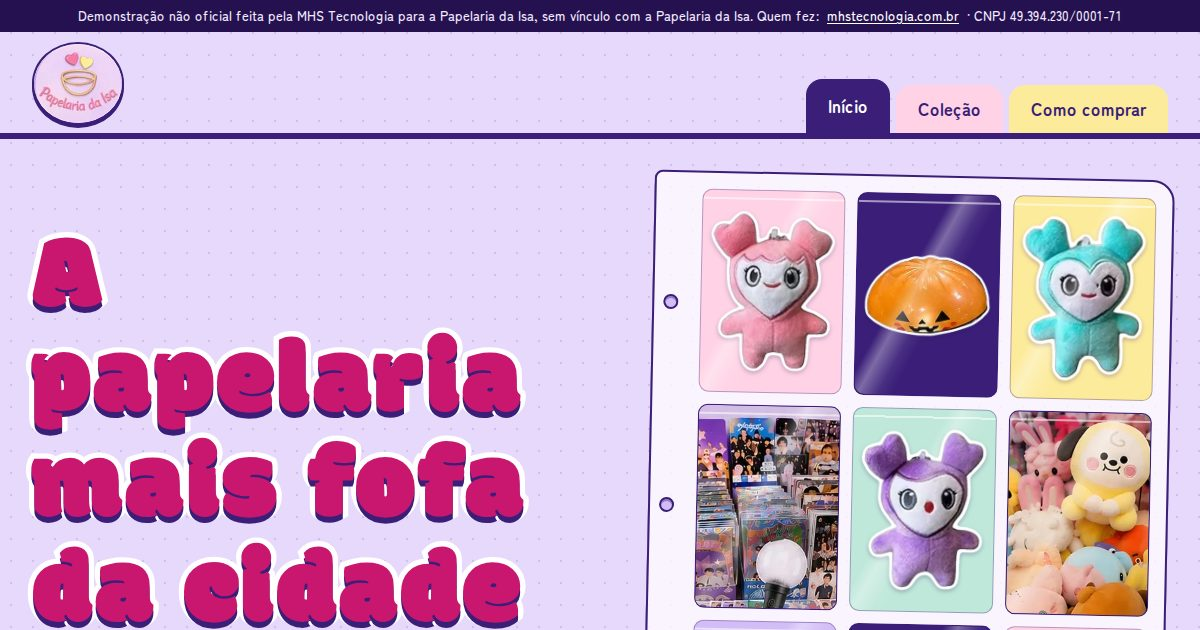
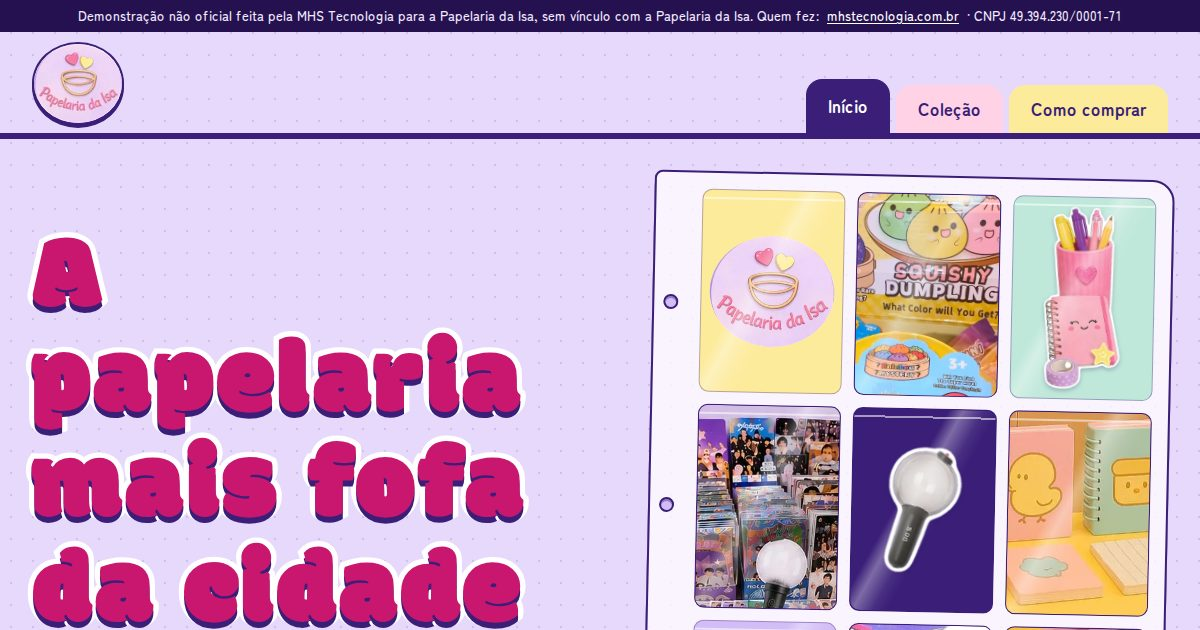
Previews: 56 ativos

Changed region(s): [[0.555, 0.3016, 0.9867, 1.0]]

diff --git a/papelaria-da-isa-joinville-sc/colecao.html b/papelaria-da-isa-joinville-sc/colecao.html
@@ -25,11 +25,14 @@
 </header>
 <main id="conteudo">
 <section class="topo-int">
-  <div class="largura">
+  <div class="largura topo-duas">
+    <div>
     <h1 class="letreiro menor">A coleção</h1>
     <p class="sub">Tudo que cabe no mundo fofo da Isa, separado como num fichário. Viu algo que quer? É só chamar no WhatsApp.</p>
     <div class="acoes acoes-int"><a class="btn btn-cheio" data-cta-topo href="https://wa.me/5547999317565?text=Ol%C3%A1%21%20Quero%20saber%20o%20que%20tem%20na%20cole%C3%A7%C3%A3o%20da%20Papelaria%20da%20Isa."><svg viewBox="0 0 24 24" aria-hidden="true" fill="currentColor"><path d="M12.04 2C6.58 2 2.13 6.45 2.13 11.91c0 1.75.46 3.45 1.32 4.95L2.05 22l5.25-1.38a9.9 9.9 0 0 0 4.74 1.21c5.46 0 9.9-4.45 9.9-9.91S17.5 2 12.04 2Zm5.8 14c-.24.68-1.42 1.31-1.95 1.36-.5.05-1.13.07-1.82-.11-.42-.13-.96-.31-1.65-.61-2.9-1.25-4.8-4.17-4.94-4.36-.14-.19-1.18-1.57-1.18-3 0-1.42.75-2.12 1.01-2.41.26-.29.57-.36.76-.36l.55.01c.18.01.41-.07.65.49.24.57.82 2 .89 2.15.07.14.12.31.02.5-.1.19-.14.31-.29.48-.14.17-.3.37-.43.5-.14.14-.29.3-.12.59.17.29.74 1.22 1.58 1.97 1.09.97 2 1.27 2.29 1.42.29.14.45.12.62-.07.17-.19.72-.84.91-1.13.19-.29.38-.24.65-.14.26.1 1.68.79 1.97.94.29.14.48.21.55.33.07.12.07.69-.17 1.37Z"/></svg><span>Perguntar pelo WhatsApp</span></a></div>
-    <nav class="ancoras" aria-label="Linhas da coleção"><a href="#squish">Squish</a><a href="#kpop">K-pop</a><a href="#pelucias">Pelúcias</a><a href="#bolsas">Bolsas</a><a href="#papelaria">Papelaria e presentes</a></nav>
+    <nav class="ancoras" aria-label="Linhas da coleção"><a href="#squish">Squish</a><a href="#kpop">K-pop</a><a href="#pelucias">Pelúcias</a><a href="#papelaria">Bolsas e papelaria</a></nav>
+    </div>
+    <div class="fecho-fig topo-fig" aria-hidden="true"><span class="fig f0" data-aperta><img src="img/bastao-200.webp" srcset="img/bastao-200.webp 200w" sizes="(max-width: 700px) 34vw, 210px" width="200" height="327" alt="" decoding="async" loading="lazy"></span><span class="fig f1" data-aperta><img src="img/urso-240.webp" srcset="img/urso-240.webp 240w, img/urso-312.webp 312w" sizes="(max-width: 700px) 34vw, 210px" width="240" height="238" alt="" decoding="async" loading="lazy"></span><span class="fig f2" data-aperta><img src="img/papelaria-220.webp" srcset="img/papelaria-220.webp 220w, img/papelaria-420.webp 420w" sizes="(max-width: 700px) 34vw, 210px" width="220" height="520" alt="" decoding="async" loading="lazy"></span></div>
   </div>
 </section>
 <section class="linha" id="squish">
@@ -41,7 +44,7 @@
     </div>
     <div class="fichario fichario-menor">
       <div class="argolas" aria-hidden="true"><i></i><i></i><i></i></div>
-      <ul class="bolsos "><li class="bolso c-foto "><figure><img class="foto" src="img/pn-squish-226.webp" srcset="img/pn-squish-226.webp 226w, img/pn-squish-452.webp 452w" sizes="(max-width: 700px) 42vw, 212px" width="226" height="278" alt="Pilha de bichinhos macios coloridos" decoding="async" loading="lazy"><figcaption>Squishs</figcaption></figure></li><li class="bolso c-uva "><span class="fig larga" data-aperta><img src="img/sq-abobora-240.webp" srcset="img/sq-abobora-240.webp 240w, img/sq-abobora-480.webp 480w" sizes="(max-width: 700px) 34vw, 210px" width="240" height="157" alt="" decoding="async" loading="lazy"></span></li><li class="bolso c-manteiga "><span class="fig larga" data-aperta><img src="img/sq-ouro-240.webp" srcset="img/sq-ouro-240.webp 240w, img/sq-ouro-480.webp 480w" sizes="(max-width: 700px) 34vw, 210px" width="240" height="177" alt="" decoding="async" loading="lazy"></span></li></ul>
+      <ul class="bolsos "><li class="bolso c-foto "><figure><img class="foto" src="img/squish-vitrine-300.webp" srcset="img/squish-vitrine-300.webp 300w, img/squish-vitrine-600.webp 600w" sizes="(max-width: 899px) 44vw, 212px" width="300" height="428" alt="Caixa de Squishy Dumpling com dumplings sorridentes" decoding="async" loading="lazy"><figcaption>Squishy Dumpling</figcaption></figure></li><li class="bolso c-foto "><figure><img class="foto" src="img/caixa-envio-360.webp" srcset="img/caixa-envio-360.webp 360w, img/caixa-envio-720.webp 720w" sizes="(max-width: 899px) 44vw, 212px" width="360" height="555" alt="Squishy Bun amarelo na mão, sobre papel de seda lilás" decoding="async" loading="lazy"><figcaption>Squishy Bun</figcaption></figure></li><li class="bolso c-foto "><figure><img class="foto" src="img/mystery-alto-300.webp" srcset="img/mystery-alto-300.webp 300w, img/mystery-alto-600.webp 600w" sizes="(max-width: 899px) 44vw, 212px" width="300" height="340" alt="Mystery Dumpling Ghost Edition na mão" decoding="async" loading="lazy"><figcaption>Mystery Dumpling</figcaption></figure></li></ul>
     </div>
   </div>
 </section>
@@ -54,7 +57,7 @@
     </div>
     <div class="fichario fichario-menor">
       <div class="argolas" aria-hidden="true"><i></i><i></i><i></i></div>
-      <ul class="bolsos cinco"><li class="bolso c-foto "><figure><img class="foto" src="img/pn-kpop-212.webp" srcset="img/pn-kpop-212.webp 212w" sizes="(max-width: 700px) 42vw, 212px" width="212" height="290" alt="Prateleira de álbuns e photocards de K-pop" decoding="async" loading="lazy"><figcaption>Álbuns e photocards</figcaption></figure></li><li class="bolso c-rosa "><span class="b-txt">Álbuns</span></li><li class="bolso c-menta "><span class="b-txt">Photocards</span></li><li class="bolso c-manteiga "><span class="b-txt">Posters</span></li><li class="bolso c-lilas "><span class="b-txt">Acessórios</span></li></ul>
+      <ul class="bolsos cinco"><li class="bolso c-foto "><figure><img class="foto" src="img/kpop-topo-212.webp" srcset="img/kpop-topo-212.webp 212w" sizes="(max-width: 899px) 44vw, 212px" width="212" height="100" alt="Parede de photocards e posters de K-pop" decoding="async" loading="lazy"><figcaption>Photocards e posters</figcaption></figure></li><li class="bolso c-foto "><figure><img class="foto" src="img/kpop-meio-212.webp" srcset="img/kpop-meio-212.webp 212w" sizes="(max-width: 899px) 44vw, 212px" width="212" height="100" alt="Fileiras de álbuns de K-pop" decoding="async" loading="lazy"><figcaption>Álbuns</figcaption></figure></li><li class="bolso c-rosa "><figure class="fig-ad"><span class="fig " data-aperta><img src="img/bastao-200.webp" srcset="img/bastao-200.webp 200w" sizes="(max-width: 700px) 34vw, 210px" width="200" height="327" alt="" decoding="async" loading="lazy"></span><figcaption>Acessórios</figcaption></figure></li></ul>
     </div>
   </div>
 </section>
@@ -62,44 +65,31 @@
   <div class="largura linha-in">
     <div class="linha-txt">
       <h2 class="titulo">Pelúcias</h2>
-      <p>Tem pelúcia de personagem na prateleira e pelúcias pequenas em várias cores.</p>
+      <p>Pelúcia para abraçar e pelúcia pequena, em várias cores.</p>
       <a class="btn btn-claro"  href="https://wa.me/5547999317565?text=Ol%C3%A1%21%20Quais%20pel%C3%BAcias%20voc%C3%AAs%20t%C3%AAm%20agora%3F"><svg viewBox="0 0 24 24" aria-hidden="true" fill="currentColor"><path d="M12.04 2C6.58 2 2.13 6.45 2.13 11.91c0 1.75.46 3.45 1.32 4.95L2.05 22l5.25-1.38a9.9 9.9 0 0 0 4.74 1.21c5.46 0 9.9-4.45 9.9-9.91S17.5 2 12.04 2Zm5.8 14c-.24.68-1.42 1.31-1.95 1.36-.5.05-1.13.07-1.82-.11-.42-.13-.96-.31-1.65-.61-2.9-1.25-4.8-4.17-4.94-4.36-.14-.19-1.18-1.57-1.18-3 0-1.42.75-2.12 1.01-2.41.26-.29.57-.36.76-.36l.55.01c.18.01.41-.07.65.49.24.57.82 2 .89 2.15.07.14.12.31.02.5-.1.19-.14.31-.29.48-.14.17-.3.37-.43.5-.14.14-.29.3-.12.59.17.29.74 1.22 1.58 1.97 1.09.97 2 1.27 2.29 1.42.29.14.45.12.62-.07.17-.19.72-.84.91-1.13.19-.29.38-.24.65-.14.26.1 1.68.79 1.97.94.29.14.48.21.55.33.07.12.07.69-.17 1.37Z"/></svg><span>Perguntar sobre pelúcias</span></a>
     </div>
     <div class="fichario fichario-menor">
       <div class="argolas" aria-hidden="true"><i></i><i></i><i></i></div>
-      <ul class="bolsos "><li class="bolso c-foto "><figure><img class="foto" src="img/pn-pelucia-186.webp" srcset="img/pn-pelucia-186.webp 186w, img/pn-pelucia-372.webp 372w" sizes="(max-width: 700px) 42vw, 212px" width="186" height="290" alt="Pelúcias de personagens numa prateleira" decoding="async" loading="lazy"><figcaption>Na prateleira</figcaption></figure></li><li class="bolso c-foto "><figure><img class="foto" src="img/chaveiros-460.webp" srcset="img/chaveiros-460.webp 460w, img/chaveiros-900.webp 900w" sizes="(max-width: 700px) 42vw, 212px" width="460" height="334" alt="Oito pelúcias pequenas sobre uma bolsa preta" decoding="async" loading="lazy"><figcaption>Pequenas, sobre a bolsa</figcaption></figure></li><li class="bolso c-foto "><figure><img class="foto" src="img/nove-420.webp" srcset="img/nove-420.webp 420w, img/nove-840.webp 840w" sizes="(max-width: 700px) 42vw, 212px" width="420" height="547" alt="Nove pelúcias iguais em nove cores" decoding="async" loading="lazy"><figcaption>Nove cores</figcaption></figure></li></ul>
-    </div>
-  </div>
-</section>
-<section class="linha" id="bolsas">
-  <div class="largura linha-in">
-    <div class="linha-txt">
-      <h2 class="titulo">Bolsas</h2>
-      <p>Bolsas fofas e bolsinhas, e as pelúcias pequenas ficam lindas nelas.</p>
-      <a class="btn btn-claro"  href="https://wa.me/5547999317565?text=Ol%C3%A1%21%20Quais%20bolsas%20voc%C3%AAs%20t%C3%AAm%20agora%3F"><svg viewBox="0 0 24 24" aria-hidden="true" fill="currentColor"><path d="M12.04 2C6.58 2 2.13 6.45 2.13 11.91c0 1.75.46 3.45 1.32 4.95L2.05 22l5.25-1.38a9.9 9.9 0 0 0 4.74 1.21c5.46 0 9.9-4.45 9.9-9.91S17.5 2 12.04 2Zm5.8 14c-.24.68-1.42 1.31-1.95 1.36-.5.05-1.13.07-1.82-.11-.42-.13-.96-.31-1.65-.61-2.9-1.25-4.8-4.17-4.94-4.36-.14-.19-1.18-1.57-1.18-3 0-1.42.75-2.12 1.01-2.41.26-.29.57-.36.76-.36l.55.01c.18.01.41-.07.65.49.24.57.82 2 .89 2.15.07.14.12.31.02.5-.1.19-.14.31-.29.48-.14.17-.3.37-.43.5-.14.14-.29.3-.12.59.17.29.74 1.22 1.58 1.97 1.09.97 2 1.27 2.29 1.42.29.14.45.12.62-.07.17-.19.72-.84.91-1.13.19-.29.38-.24.65-.14.26.1 1.68.79 1.97.94.29.14.48.21.55.33.07.12.07.69-.17 1.37Z"/></svg><span>Perguntar sobre bolsas</span></a>
-    </div>
-    <div class="fichario fichario-menor">
-      <div class="argolas" aria-hidden="true"><i></i><i></i><i></i></div>
-      <ul class="bolsos "><li class="bolso c-foto "><figure><img class="foto" src="img/pn-bolsas-160.webp" srcset="img/pn-bolsas-160.webp 160w, img/pn-bolsas-316.webp 316w" sizes="(max-width: 700px) 42vw, 212px" width="160" height="302" alt="Bolsa preta e rosa com personagem e bolsinha xadrez lilás" decoding="async" loading="lazy"><figcaption>Bolsa e bolsinha</figcaption></figure></li><li class="bolso c-rosa "><span class="fig " data-aperta><img src="img/pel-cinza-240.webp" srcset="img/pel-cinza-240.webp 240w, img/pel-cinza-442.webp 442w" sizes="(max-width: 700px) 34vw, 210px" width="240" height="309" alt="" decoding="async" loading="lazy"></span></li><li class="bolso c-menta "><span class="fig " data-aperta><img src="img/pel-azul-240.webp" srcset="img/pel-azul-240.webp 240w, img/pel-azul-480.webp 480w" sizes="(max-width: 700px) 34vw, 210px" width="240" height="279" alt="" decoding="async" loading="lazy"></span></li></ul>
+      <ul class="bolsos "><li class="bolso c-foto "><figure><img class="foto" src="img/pilha-225.webp" srcset="img/pilha-225.webp 225w" sizes="(max-width: 899px) 44vw, 212px" width="225" height="320" alt="Pilha de pelúcias em tons pastel" decoding="async" loading="lazy"><figcaption>Para abraçar</figcaption></figure></li><li class="bolso c-foto "><figure><img class="foto" src="img/chaveiros-460.webp" srcset="img/chaveiros-460.webp 460w, img/chaveiros-900.webp 900w" sizes="(max-width: 899px) 44vw, 212px" width="460" height="334" alt="Oito pelúcias pequenas sobre uma bolsa preta" decoding="async" loading="lazy"><figcaption>Pequenas, sobre a bolsa</figcaption></figure></li><li class="bolso c-foto "><figure><img class="foto" src="img/nove-420.webp" srcset="img/nove-420.webp 420w, img/nove-840.webp 840w" sizes="(max-width: 899px) 44vw, 212px" width="420" height="547" alt="Nove pelúcias iguais em nove cores" decoding="async" loading="lazy"><figcaption>Nove cores</figcaption></figure></li></ul>
     </div>
   </div>
 </section>
 <section class="linha" id="papelaria">
   <div class="largura linha-in">
     <div class="linha-txt">
-      <h2 class="titulo">Papelaria e presentes</h2>
-      <p>A papelaria fofa do nome, e presentes criativos para quem você gosta.</p>
+      <h2 class="titulo">Bolsas e papelaria</h2>
+      <p>Bolsas fofas, a papelaria do nome e presentes criativos para quem você gosta.</p>
       <a class="btn btn-claro"  href="https://wa.me/5547999317565?text=Ol%C3%A1%21%20Queria%20uma%20ideia%20de%20presente%20da%20Papelaria%20da%20Isa."><svg viewBox="0 0 24 24" aria-hidden="true" fill="currentColor"><path d="M12.04 2C6.58 2 2.13 6.45 2.13 11.91c0 1.75.46 3.45 1.32 4.95L2.05 22l5.25-1.38a9.9 9.9 0 0 0 4.74 1.21c5.46 0 9.9-4.45 9.9-9.91S17.5 2 12.04 2Zm5.8 14c-.24.68-1.42 1.31-1.95 1.36-.5.05-1.13.07-1.82-.11-.42-.13-.96-.31-1.65-.61-2.9-1.25-4.8-4.17-4.94-4.36-.14-.19-1.18-1.57-1.18-3 0-1.42.75-2.12 1.01-2.41.26-.29.57-.36.76-.36l.55.01c.18.01.41-.07.65.49.24.57.82 2 .89 2.15.07.14.12.31.02.5-.1.19-.14.31-.29.48-.14.17-.3.37-.43.5-.14.14-.29.3-.12.59.17.29.74 1.22 1.58 1.97 1.09.97 2 1.27 2.29 1.42.29.14.45.12.62-.07.17-.19.72-.84.91-1.13.19-.29.38-.24.65-.14.26.1 1.68.79 1.97.94.29.14.48.21.55.33.07.12.07.69-.17 1.37Z"/></svg><span>Pedir ideia de presente</span></a>
     </div>
     <div class="fichario fichario-menor">
       <div class="argolas" aria-hidden="true"><i></i><i></i><i></i></div>
-      <ul class="bolsos "><li class="bolso c-foto "><figure><img class="foto" src="img/pn-mais-226.webp" srcset="img/pn-mais-226.webp 226w" sizes="(max-width: 700px) 42vw, 212px" width="226" height="330" alt="Caderno, fita, chaveiro de coração e o logo da loja em neon" decoding="async" loading="lazy"><figcaption>E muito mais</figcaption></figure></li><li class="bolso c-menta "><span class="fig alta" data-aperta><img src="img/papelaria-220.webp" srcset="img/papelaria-220.webp 220w, img/papelaria-420.webp 420w" sizes="(max-width: 700px) 34vw, 210px" width="220" height="520" alt="" decoding="async" loading="lazy"></span></li><li class="bolso c-lilas "><span class="fig " data-aperta><img src="img/pel-branca-240.webp" srcset="img/pel-branca-240.webp 240w, img/pel-branca-458.webp 458w" sizes="(max-width: 700px) 34vw, 210px" width="240" height="307" alt="" decoding="async" loading="lazy"></span></li></ul>
+      <ul class="bolsos "><li class="bolso c-foto "><figure><img class="foto" src="img/bolsa-xadrez-254.webp" srcset="img/bolsa-xadrez-254.webp 254w" sizes="(max-width: 899px) 44vw, 212px" width="254" height="266" alt="Bolsinha xadrez lilás na frente de uma bolsa rosa" decoding="async" loading="lazy"><figcaption>Bolsinha xadrez</figcaption></figure></li><li class="bolso c-menta "><figure class="fig-ad"><span class="fig alta" data-aperta><img src="img/papelaria-220.webp" srcset="img/papelaria-220.webp 220w, img/papelaria-420.webp 420w" sizes="(max-width: 700px) 34vw, 210px" width="220" height="520" alt="" decoding="async" loading="lazy"></span><figcaption>Papelaria fofa</figcaption></figure></li><li class="bolso c-foto "><figure><img class="foto" src="img/cadernos-300.webp" srcset="img/cadernos-300.webp 300w, img/cadernos-405.webp 405w" sizes="(max-width: 899px) 44vw, 212px" width="300" height="307" alt="Arte de cadernos pastel com pintinho e torradinha" decoding="async" loading="lazy"><figcaption>Arte de cadernos</figcaption></figure></li></ul>
     </div>
   </div>
 </section>
 <section class="fecho">
   <div class="largura fecho-in">
-    <div class="fecho-fig" aria-hidden="true"><span class="fig f0" data-aperta><img src="img/pel-rosa-240.webp" srcset="img/pel-rosa-240.webp 240w, img/pel-rosa-480.webp 480w" sizes="(max-width: 700px) 34vw, 210px" width="240" height="308" alt="" decoding="async" loading="lazy"></span><span class="fig f1" data-aperta><img src="img/pel-turquesa-240.webp" srcset="img/pel-turquesa-240.webp 240w, img/pel-turquesa-442.webp 442w" sizes="(max-width: 700px) 34vw, 210px" width="240" height="319" alt="" decoding="async" loading="lazy"></span><span class="fig f2" data-aperta><img src="img/pel-lilas-240.webp" srcset="img/pel-lilas-240.webp 240w, img/pel-lilas-448.webp 448w" sizes="(max-width: 700px) 34vw, 210px" width="240" height="312" alt="" decoding="async" loading="lazy"></span></div>
+    <div class="fecho-fig" aria-hidden="true"><span class="fig f0" data-aperta><img src="img/pel-verde-240.webp" srcset="img/pel-verde-240.webp 240w, img/pel-verde-454.webp 454w" sizes="(max-width: 700px) 34vw, 210px" width="240" height="321" alt="" decoding="async" loading="lazy"></span><span class="fig f1" data-aperta><img src="img/urso-240.webp" srcset="img/urso-240.webp 240w, img/urso-312.webp 312w" sizes="(max-width: 700px) 34vw, 210px" width="240" height="238" alt="" decoding="async" loading="lazy"></span><span class="fig f2" data-aperta><img src="img/bastao-200.webp" srcset="img/bastao-200.webp 200w" sizes="(max-width: 700px) 34vw, 210px" width="200" height="327" alt="" decoding="async" loading="lazy"></span></div>
     <div>
       <h2 class="titulo">Viu algo que quer?</h2>
       <p>Mande uma mensagem e pergunte se tem. Enviamos para todo o Brasil.</p>

diff --git a/papelaria-da-isa-joinville-sc/index.html b/papelaria-da-isa-joinville-sc/index.html
@@ -35,40 +35,18 @@
   <div class="largura hero-in">
     <div class="hero-txt">
       <h1 class="letreiro">A papelaria mais fofa da cidade</h1>
-      <p class="sub">Squish, photocards, álbuns de K-pop, pelúcias e presentes criativos. No Shopping Mueller, em Joinville, com envio para todo o Brasil.</p>
+      <p class="sub">Squish, photocards, K-pop e pelúcias no Shopping Mueller, em Joinville. Enviamos para todo o Brasil.</p>
       <div class="acoes">
         <a class="btn btn-cheio" data-cta-topo href="https://wa.me/5547999317565?text=Ol%C3%A1%21%20Quero%20saber%20o%20que%20tem%20de%20novidade%20na%20Papelaria%20da%20Isa."><svg viewBox="0 0 24 24" aria-hidden="true" fill="currentColor"><path d="M12.04 2C6.58 2 2.13 6.45 2.13 11.91c0 1.75.46 3.45 1.32 4.95L2.05 22l5.25-1.38a9.9 9.9 0 0 0 4.74 1.21c5.46 0 9.9-4.45 9.9-9.91S17.5 2 12.04 2Zm5.8 14c-.24.68-1.42 1.31-1.95 1.36-.5.05-1.13.07-1.82-.11-.42-.13-.96-.31-1.65-.61-2.9-1.25-4.8-4.17-4.94-4.36-.14-.19-1.18-1.57-1.18-3 0-1.42.75-2.12 1.01-2.41.26-.29.57-.36.76-.36l.55.01c.18.01.41-.07.65.49.24.57.82 2 .89 2.15.07.14.12.31.02.5-.1.19-.14.31-.29.48-.14.17-.3.37-.43.5-.14.14-.29.3-.12.59.17.29.74 1.22 1.58 1.97 1.09.97 2 1.27 2.29 1.42.29.14.45.12.62-.07.17-.19.72-.84.91-1.13.19-.29.38-.24.65-.14.26.1 1.68.79 1.97.94.29.14.48.21.55.33.07.12.07.69-.17 1.37Z"/></svg><span>Chamar no WhatsApp</span></a>
-        <a class="btn btn-claro" href="colecao.html">Ver a coleção</a>
+        <a class="btn btn-claro so-grande" href="colecao.html">Ver a coleção</a>
       </div>
     </div>
-    <div class="fichario" aria-label="Página de fichário com pelúcias, squishs e photocards" role="group">
+    <div class="fichario" aria-label="Página de fichário com squishs, papelaria, K-pop e pelúcias" role="group">
       <div class="argolas" aria-hidden="true"><i></i><i></i><i></i></div>
-      <ul class="bolsos"><li class="bolso c-rosa "><span class="fig " data-aperta><img src="img/pel-rosa-240.webp" srcset="img/pel-rosa-240.webp 240w, img/pel-rosa-480.webp 480w" sizes="(max-width: 700px) 34vw, 210px" width="240" height="308" alt="" decoding="async" loading="lazy"></span></li><li class="bolso c-uva "><span class="fig larga" data-aperta><img src="img/sq-abobora-240.webp" srcset="img/sq-abobora-240.webp 240w, img/sq-abobora-480.webp 480w" sizes="(max-width: 700px) 34vw, 210px" width="240" height="157" alt="" decoding="async" loading="lazy"></span></li><li class="bolso c-manteiga "><span class="fig " data-aperta><img src="img/pel-turquesa-240.webp" srcset="img/pel-turquesa-240.webp 240w, img/pel-turquesa-442.webp 442w" sizes="(max-width: 700px) 34vw, 210px" width="240" height="319" alt="" decoding="async" loading="lazy"></span></li><li class="bolso c-foto "><img class="foto" src="img/pn-kpop-212.webp" srcset="img/pn-kpop-212.webp 212w" sizes="(max-width: 700px) 30vw, 170px" width="212" height="290" alt="Prateleira de álbuns e photocards de K-pop" decoding="async" loading="lazy"></li><li class="bolso c-menta "><span class="fig " data-aperta><img src="img/pel-lilas-240.webp" srcset="img/pel-lilas-240.webp 240w, img/pel-lilas-448.webp 448w" sizes="(max-width: 700px) 34vw, 210px" width="240" height="312" alt="" decoding="async" loading="lazy"></span></li><li class="bolso c-foto "><img class="foto" src="img/pn-squish-226.webp" srcset="img/pn-squish-226.webp 226w, img/pn-squish-452.webp 452w" sizes="(max-width: 700px) 30vw, 170px" width="226" height="278" alt="Pilha de bichinhos macios coloridos" decoding="async" loading="lazy"></li><li class="bolso c-lilas "><span class="fig " data-aperta><img src="img/pel-amarela-240.webp" srcset="img/pel-amarela-240.webp 240w, img/pel-amarela-478.webp 478w" sizes="(max-width: 700px) 34vw, 210px" width="240" height="307" alt="" decoding="async" loading="lazy"></span></li><li class="bolso c-uva "><span class="fig larga" data-aperta><img src="img/sq-ouro-240.webp" srcset="img/sq-ouro-240.webp 240w, img/sq-ouro-480.webp 480w" sizes="(max-width: 700px) 34vw, 210px" width="240" height="177" alt="" decoding="async" loading="lazy"></span></li><li class="bolso c-rosa "><span class="fig " data-aperta><img src="img/pel-vermelha-240.webp" srcset="img/pel-vermelha-240.webp 240w, img/pel-vermelha-480.webp 480w" sizes="(max-width: 700px) 34vw, 210px" width="240" height="286" alt="" decoding="async" loading="lazy"></span></li></ul>
+      <ul class="bolsos"><li class="bolso c-manteiga "><img class="b-logo" src="img/logo-112.webp" srcset="img/logo-112.webp 112w, img/logo-224.webp 224w, img/logo-400.webp 400w" sizes="(max-width: 700px) 30vw, 170px" width="112" height="100" alt="Logo da Papelaria da Isa" decoding="async" loading="lazy"></li><li class="bolso c-foto "><img class="foto" src="img/squish-vitrine-300.webp" srcset="img/squish-vitrine-300.webp 300w, img/squish-vitrine-600.webp 600w" sizes="(max-width: 700px) 30vw, 170px" width="300" height="428" alt="Caixa de Squishy Dumpling com dumplings sorridentes" decoding="async" loading="lazy"></li><li class="bolso c-menta "><span class="fig alta" data-aperta><img src="img/papelaria-220.webp" srcset="img/papelaria-220.webp 220w, img/papelaria-420.webp 420w" sizes="(max-width: 700px) 34vw, 210px" width="220" height="520" alt="" decoding="async" loading="lazy"></span></li><li class="bolso c-foto "><img class="foto" src="img/pn-kpop-212.webp" srcset="img/pn-kpop-212.webp 212w" sizes="(max-width: 700px) 30vw, 170px" width="212" height="290" alt="Prateleira de álbuns e photocards de K-pop" decoding="async" loading="lazy"></li><li class="bolso c-uva "><span class="fig alta" data-aperta><img src="img/bastao-200.webp" srcset="img/bastao-200.webp 200w" sizes="(max-width: 700px) 34vw, 210px" width="200" height="327" alt="" decoding="async" loading="lazy"></span></li><li class="bolso c-foto "><img class="foto" src="img/cadernos-300.webp" srcset="img/cadernos-300.webp 300w, img/cadernos-405.webp 405w" sizes="(max-width: 700px) 30vw, 170px" width="300" height="307" alt="Arte de cadernos pastel com pintinho e torradinha" decoding="async" loading="lazy"></li><li class="bolso c-lilas "><span class="fig " data-aperta><img src="img/urso-240.webp" srcset="img/urso-240.webp 240w, img/urso-312.webp 312w" sizes="(max-width: 700px) 34vw, 210px" width="240" height="238" alt="" decoding="async" loading="lazy"></span></li><li class="bolso c-foto "><img class="foto" src="img/mystery-alto-300.webp" srcset="img/mystery-alto-300.webp 300w, img/mystery-alto-600.webp 600w" sizes="(max-width: 700px) 30vw, 170px" width="300" height="340" alt="Mystery Dumpling Ghost Edition na mão" decoding="async" loading="lazy"></li><li class="bolso c-foto "><img class="foto" src="img/pilha-225.webp" srcset="img/pilha-225.webp 225w" sizes="(max-width: 700px) 30vw, 170px" width="225" height="320" alt="Pilha de pelúcias em tons pastel" decoding="async" loading="lazy"></li></ul>
       <p class="dica">Pode apertar. É macio.</p>
     </div>
-  </div>
-</section>
-
-<section class="secao">
-  <div class="largura">
-    <h2 class="titulo">Aqui é mais que papelaria</h2>
-    <p class="lead">Tem um mundo fofo e cheio de novidades esperando por você.</p>
-    <ul class="tira"><li><a class="pcard" href="colecao.html#squish"><img class="foto" src="img/pn-squish-226.webp" srcset="img/pn-squish-226.webp 226w, img/pn-squish-452.webp 452w" sizes="(max-width: 700px) 44vw, 212px" width="226" height="278" alt="Pilha de bichinhos macios coloridos" decoding="async" loading="lazy"><span>Squishs</span></a></li><li><a class="pcard" href="colecao.html#kpop"><img class="foto" src="img/pn-kpop-212.webp" srcset="img/pn-kpop-212.webp 212w" sizes="(max-width: 700px) 44vw, 212px" width="212" height="290" alt="Prateleira de álbuns e photocards de K-pop" decoding="async" loading="lazy"><span>K-pop</span></a></li><li><a class="pcard" href="colecao.html#pelucias"><img class="foto" src="img/pn-pelucia-186.webp" srcset="img/pn-pelucia-186.webp 186w, img/pn-pelucia-372.webp 372w" sizes="(max-width: 700px) 44vw, 212px" width="186" height="290" alt="Pelúcias de personagens numa prateleira" decoding="async" loading="lazy"><span>Pelúcias</span></a></li><li><a class="pcard" href="colecao.html#bolsas"><img class="foto" src="img/pn-bolsas-160.webp" srcset="img/pn-bolsas-160.webp 160w, img/pn-bolsas-316.webp 316w" sizes="(max-width: 700px) 44vw, 212px" width="160" height="302" alt="Bolsa preta e rosa e bolsinha xadrez lilás" decoding="async" loading="lazy"><span>Bolsas</span></a></li><li><a class="pcard" href="colecao.html#papelaria"><img class="foto" src="img/pn-mais-226.webp" srcset="img/pn-mais-226.webp 226w" sizes="(max-width: 700px) 44vw, 212px" width="226" height="330" alt="Caderno, fita, chaveiro de coração e o logo da loja em neon" decoding="async" loading="lazy"><span>E muito mais</span></a></li></ul>
-  </div>
-</section>
-
-<section class="novidade">
-  <div class="largura nov-in">
-    <div class="nov-foto"><img src="img/halloween-720.webp" srcset="img/halloween-720.webp 720w, img/halloween-1400.webp 1400w" sizes="(max-width: 900px) 100vw, 680px" width="720" height="472" alt="Caixa do Mystery Dumpling Ghost Edition com seis squishs de Halloween na frente" decoding="async" loading="lazy"></div>
-    <div class="nov-txt">
-      <p class="selo">Novidade</p>
-      <h2 class="titulo claro">Squishy Halloween</h2>
-      <p>Macio, divertido e super colecionável. A edição limitada é o Ghost Dumpling.</p>
-      <ul class="fitas">
-        <li>Macio e squeezy</li><li>Textura com glitter</li><li>Ideal para presentear</li><li>Colecione todos</li>
-      </ul>
-      <a class="btn btn-manteiga"  href="https://wa.me/5547999317565?text=Ol%C3%A1%21%20Quero%20um%20Squishy%20Halloween."><svg viewBox="0 0 24 24" aria-hidden="true" fill="currentColor"><path d="M12.04 2C6.58 2 2.13 6.45 2.13 11.91c0 1.75.46 3.45 1.32 4.95L2.05 22l5.25-1.38a9.9 9.9 0 0 0 4.74 1.21c5.46 0 9.9-4.45 9.9-9.91S17.5 2 12.04 2Zm5.8 14c-.24.68-1.42 1.31-1.95 1.36-.5.05-1.13.07-1.82-.11-.42-.13-.96-.31-1.65-.61-2.9-1.25-4.8-4.17-4.94-4.36-.14-.19-1.18-1.57-1.18-3 0-1.42.75-2.12 1.01-2.41.26-.29.57-.36.76-.36l.55.01c.18.01.41-.07.65.49.24.57.82 2 .89 2.15.07.14.12.31.02.5-.1.19-.14.31-.29.48-.14.17-.3.37-.43.5-.14.14-.29.3-.12.59.17.29.74 1.22 1.58 1.97 1.09.97 2 1.27 2.29 1.42.29.14.45.12.62-.07.17-.19.72-.84.91-1.13.19-.29.38-.24.65-.14.26.1 1.68.79 1.97.94.29.14.48.21.55.33.07.12.07.69-.17 1.37Z"/></svg><span>Garantir o meu</span></a>
-    </div>
+    <a class="btn btn-claro so-cel" href="colecao.html">Ver a coleção</a>
   </div>
 </section>
 
@@ -82,6 +60,28 @@
       <p class="lead">Essa é a pergunta na caixa do Squishy Dumpling e do Squishy Bun. Você só descobre quando abre.</p>
       <p>Na edição Glitter, a caixa ainda pergunta se você vai achar o dourado super raro.</p>
       <p><a class="link" href="colecao.html#squish">Ver os squishs da coleção</a></p>
+    </div>
+  </div>
+</section>
+
+<section class="secao">
+  <div class="largura">
+    <h2 class="titulo">Aqui é mais que papelaria</h2>
+    <p class="lead">Tem um mundo fofo e cheio de novidades esperando por você.</p>
+    <ul class="tira"><li><a class="pcard" href="colecao.html#squish"><img class="foto" src="img/squish-vitrine-300.webp" srcset="img/squish-vitrine-300.webp 300w, img/squish-vitrine-600.webp 600w" sizes="(max-width: 700px) 44vw, 212px" width="300" height="428" alt="Caixa de Squishy Dumpling com dumplings sorridentes" decoding="async" loading="lazy"><span>Squishs</span></a></li><li><a class="pcard" href="colecao.html#kpop"><img class="foto" src="img/pn-kpop-212.webp" srcset="img/pn-kpop-212.webp 212w" sizes="(max-width: 700px) 44vw, 212px" width="212" height="290" alt="Prateleira de álbuns e photocards de K-pop" decoding="async" loading="lazy"><span>K-pop</span></a></li><li><a class="pcard" href="colecao.html#pelucias"><img class="foto" src="img/pilha-225.webp" srcset="img/pilha-225.webp 225w" sizes="(max-width: 700px) 44vw, 212px" width="225" height="320" alt="Pilha de pelúcias em tons pastel" decoding="async" loading="lazy"><span>Pelúcias</span></a></li><li><a class="pcard" href="colecao.html#papelaria"><img class="foto" src="img/bolsa-xadrez-254.webp" srcset="img/bolsa-xadrez-254.webp 254w" sizes="(max-width: 700px) 44vw, 212px" width="254" height="266" alt="Bolsinha xadrez lilás na frente de uma bolsa rosa" decoding="async" loading="lazy"><span>Bolsas</span></a></li><li><a class="pcard" href="colecao.html#papelaria"><img class="foto" src="img/cadernos-300.webp" srcset="img/cadernos-300.webp 300w, img/cadernos-405.webp 405w" sizes="(max-width: 700px) 44vw, 212px" width="300" height="307" alt="Arte de cadernos pastel com pintinho e torradinha" decoding="async" loading="lazy"><span>Papelaria</span></a></li></ul>
+  </div>
+</section>
+
+<section class="novidade">
+  <div class="largura nov-in">
+    <div class="nov-foto"><img src="img/mystery-420.webp" srcset="img/mystery-420.webp 420w, img/mystery-1040.webp 1040w" sizes="(max-width: 900px) 100vw, 680px" width="420" height="342" alt="Mão segurando o Mystery Dumpling Ghost Edition, com o nome Papelaria da Isa na frente" decoding="async" loading="lazy"></div>
+    <div class="nov-txt">
+      <h2 class="titulo claro">Mystery Dumpling</h2>
+      <p>Macio, divertido e super colecionável. A caixa desafia: você acha o Ghost Dumpling super raro?</p>
+      <ul class="fitas">
+        <li>Macio e squeezy</li><li>Textura com glitter</li><li>Ideal para presentear</li><li>Colecione todos</li>
+      </ul>
+      <a class="btn btn-manteiga"  href="https://wa.me/5547999317565?text=Ol%C3%A1%21%20Tem%20Mystery%20Dumpling%3F"><svg viewBox="0 0 24 24" aria-hidden="true" fill="currentColor"><path d="M12.04 2C6.58 2 2.13 6.45 2.13 11.91c0 1.75.46 3.45 1.32 4.95L2.05 22l5.25-1.38a9.9 9.9 0 0 0 4.74 1.21c5.46 0 9.9-4.45 9.9-9.91S17.5 2 12.04 2Zm5.8 14c-.24.68-1.42 1.31-1.95 1.36-.5.05-1.13.07-1.82-.11-.42-.13-.96-.31-1.65-.61-2.9-1.25-4.8-4.17-4.94-4.36-.14-.19-1.18-1.57-1.18-3 0-1.42.75-2.12 1.01-2.41.26-.29.57-.36.76-.36l.55.01c.18.01.41-.07.65.49.24.57.82 2 .89 2.15.07.14.12.31.02.5-.1.19-.14.31-.29.48-.14.17-.3.37-.43.5-.14.14-.29.3-.12.59.17.29.74 1.22 1.58 1.97 1.09.97 2 1.27 2.29 1.42.29.14.45.12.62-.07.17-.19.72-.84.91-1.13.19-.29.38-.24.65-.14.26.1 1.68.79 1.97.94.29.14.48.21.55.33.07.12.07.69-.17 1.37Z"/></svg><span>Perguntar pelo Mystery Dumpling</span></a>
     </div>
   </div>
 </section>
@@ -102,7 +102,7 @@
 </section>
 <section class="fecho">
   <div class="largura fecho-in">
-    <div class="fecho-fig" aria-hidden="true"><span class="fig f0" data-aperta><img src="img/pel-verde-240.webp" srcset="img/pel-verde-240.webp 240w, img/pel-verde-454.webp 454w" sizes="(max-width: 700px) 34vw, 210px" width="240" height="321" alt="" decoding="async" loading="lazy"></span><span class="fig f1" data-aperta><img src="img/pel-azul-240.webp" srcset="img/pel-azul-240.webp 240w, img/pel-azul-480.webp 480w" sizes="(max-width: 700px) 34vw, 210px" width="240" height="279" alt="" decoding="async" loading="lazy"></span><span class="fig f2" data-aperta><img src="img/pel-branca-240.webp" srcset="img/pel-branca-240.webp 240w, img/pel-branca-458.webp 458w" sizes="(max-width: 700px) 34vw, 210px" width="240" height="307" alt="" decoding="async" loading="lazy"></span></div>
+    <div class="fecho-fig" aria-hidden="true"><span class="fig f0" data-aperta><img src="img/urso-240.webp" srcset="img/urso-240.webp 240w, img/urso-312.webp 312w" sizes="(max-width: 700px) 34vw, 210px" width="240" height="238" alt="" decoding="async" loading="lazy"></span><span class="fig f1" data-aperta><img src="img/papelaria-220.webp" srcset="img/papelaria-220.webp 220w, img/papelaria-420.webp 420w" sizes="(max-width: 700px) 34vw, 210px" width="220" height="520" alt="" decoding="async" loading="lazy"></span><span class="fig f2" data-aperta><img src="img/pel-rosa-240.webp" srcset="img/pel-rosa-240.webp 240w, img/pel-rosa-480.webp 480w" sizes="(max-width: 700px) 34vw, 210px" width="240" height="308" alt="" decoding="async" loading="lazy"></span></div>
     <div>
       <h2 class="titulo">Vem se perder nesse mundo mágico</h2>
       <p>Chame no WhatsApp e pergunte o que chegou.</p>

diff --git a/papelaria-da-isa-joinville-sc/estilo.css b/papelaria-da-isa-joinville-sc/estilo.css
@@ -90,7 +90,7 @@ a { color: inherit; }
 /* ---------- letreiro: texto em forma de adesivo ---------- */
 .letreiro {
   font-family: var(--disp); font-weight: 400;
-  font-size: clamp(3.5rem, 15.5vw, 6.7rem);
+  font-size: clamp(3.25rem, 14vw, 6.7rem);
   line-height: .98;
   color: var(--rosa);
   -webkit-text-stroke: .1em #fff;
@@ -127,8 +127,8 @@ a { color: inherit; }
 @media (min-width: 700px) { .acoes .btn { flex: 0 0 auto; } .acoes { margin-top: 24px; } }
 
 /* ---------- herói ---------- */
-.hero { padding: 10px 0 40px; }
-.hero-in { display: grid; gap: 20px; }
+.hero { padding: 6px 0 40px; }
+.hero-in { display: grid; gap: 28px; }
 @media (min-width: 980px) {
   .hero { padding: 36px 0 64px; }
   .hero-in { grid-template-columns: minmax(0, 1fr) 520px; gap: 56px; align-items: center; }
@@ -174,14 +174,20 @@ a { color: inherit; }
 .fig { display: block; width: 100%; touch-action: manipulation; transform-origin: 50% 90%; cursor: grab; }
 .fig img { width: 100%; filter: drop-shadow(0 2px 2px rgba(37, 16, 80, .28)); -webkit-user-drag: none; user-select: none; }
 .fig.alta { width: 62%; margin-inline: auto; }
-.fig.aperta { animation: aperta .5s cubic-bezier(.3, 1.6, .5, 1); }
+.b-logo { width: 100%; border-radius: 50%; position: relative; }
+/* precisa vencer a entrada de .hero .bolso:nth-child(...) > * */
+.fig.aperta, .hero .bolso:nth-child(n) > .fig.aperta { animation: aperta .5s cubic-bezier(.3, 1.6, .5, 1); animation-delay: 0s; }
 @keyframes aperta {
   0% { transform: scale(1, 1); }
   28% { transform: scale(1.2, .74); }
   58% { transform: scale(.93, 1.08); }
   100% { transform: scale(1, 1); }
 }
-.dica { position: absolute; right: 14px; bottom: -19px; background: var(--manteiga); border: 2px solid var(--uva); border-radius: 999px; padding: 2px 14px; font-size: .9375rem; font-weight: 700; rotate: -2deg; z-index: 3; }
+.dica { position: absolute; right: 14px; top: -16px; background: var(--manteiga); border: 2px solid var(--uva); border-radius: 999px; padding: 2px 14px; font-size: .9375rem; font-weight: 700; rotate: -2deg; z-index: 3; }
+@media (min-width: 980px) { .dica { top: auto; bottom: -19px; } }
+.so-cel { width: 100%; margin-top: 8px; }
+.so-grande { display: none; }
+@media (min-width: 980px) { .so-cel { display: none; } .so-grande { display: inline-flex; } }
 @media (hover: hover) { .fig:hover { transform: translateY(-3px) rotate(-2deg); transition: transform .15s; } }
 
 /* entra uma vez só: os itens descem para dentro dos bolsos */
@@ -215,7 +221,6 @@ a { color: inherit; }
 .nov-in { display: grid; gap: 28px; padding-inline: 0; }
 .nov-foto img { width: 100%; }
 .nov-txt { padding-inline: var(--gutter); }
-.selo { display: inline-block; background: var(--rosa); color: #fff; font-weight: 900; padding: 2px 14px; border-radius: 999px; rotate: -2deg; margin-bottom: 10px; }
 .fitas { display: flex; flex-wrap: wrap; gap: 8px; margin: 16px 0 24px; }
 .fitas li { padding: 3px 14px; border-radius: 6px; background: var(--lilas-2); color: var(--uva); font-weight: 700; font-size: 1rem; }
 .fitas li:nth-child(2) { background: var(--manteiga); }
@@ -258,6 +263,13 @@ a { color: inherit; }
 
 /* ---------- páginas internas ---------- */
 .topo-int { padding: 20px 0 8px; }
+.topo-duas { display: grid; gap: 24px; }
+.topo-fig { display: none; }
+.topo-foto { rotate: 1.2deg; max-width: 540px; }
+@media (min-width: 980px) {
+  .topo-duas { grid-template-columns: minmax(0, 1fr) 540px; gap: 48px; align-items: center; }
+  .topo-fig { display: flex; }
+}
 @media (min-width: 900px) { .topo-int { padding: 40px 0 8px; } }
 .acoes-int { margin-top: 18px; }
 .ancoras { display: flex; flex-wrap: wrap; gap: 8px; margin-top: 22px; }
@@ -276,15 +288,24 @@ a { color: inherit; }
 .fichario-menor .bolso:not(.c-foto) { display: grid; place-items: center; min-height: 170px; }
 .fichario-menor .c-foto { background: var(--folha); padding: 7px; }
 .fichario-menor figure { margin: 0; height: 100%; display: flex; flex-direction: column; position: relative; z-index: 3; }
-.fichario-menor figure img { width: 100%; aspect-ratio: 55 / 78; object-fit: cover; border-radius: 6px; }
+.fichario-menor figure > img { width: 100%; aspect-ratio: 55 / 78; object-fit: cover; border-radius: 6px; }
 .fichario-menor figcaption { font-size: .875rem; font-weight: 700; line-height: 1.25; padding: 6px 2px 2px; text-align: center; }
-.bolsos.cinco { grid-template-columns: repeat(2, minmax(0, 1fr)); }
-.bolsos.cinco .bolso:first-child { grid-row: span 4; }
-.fichario-menor .bolsos.cinco .bolso:not(:first-child) { min-height: 62px; }
-.b-txt { font-weight: 900; font-size: 1.0625rem; position: relative; z-index: 3; }
+.fichario-menor .bolsos.cinco { grid-template-columns: repeat(2, minmax(0, 1fr)); }
+.bolsos.cinco .bolso:last-child { grid-column: 2; grid-row: 1 / 3; }
+.bolsos.cinco figure > img { aspect-ratio: 212 / 100; }
+.fig-ad { justify-content: center; align-items: center; }
+.fig-ad { flex: 1; }
+.fig-ad .fig, .fig-ad .fig.alta { width: auto; margin: 0; flex: none; }
+.fig-ad .fig img { width: auto; height: 190px; }
+@media (min-width: 900px) { .fig-ad .fig img { height: 216px; } }
+.fig-ad figcaption { width: 100%; }
+@media (max-width: 899px) {
+  .fichario-menor { padding-left: 28px; }
+  .fichario-menor .bolsos:not(.cinco) { grid-template-columns: repeat(2, minmax(0, 1fr)); }
+  .fichario-menor .bolsos:not(.cinco) .bolso:last-child { grid-column: 1 / -1; justify-self: center; width: calc(50% - 4px); }
+}
 @media (min-width: 900px) {
-  .bolsos.cinco { grid-template-columns: 212px repeat(2, minmax(0, 1fr)); }
-  .bolsos.cinco .bolso:first-child { grid-row: span 2; }
+  .fichario-menor .bolsos.cinco { grid-template-columns: 226px minmax(0, 1fr); }
 }
 
 /* ---------- fecho e rodapé ---------- */
@@ -292,15 +313,17 @@ a { color: inherit; }
 .secao-branca + .fecho { margin-top: 0; border-top: 0; }
 .fecho-in { display: grid; gap: 18px; justify-items: center; text-align: center; }
 .fecho p { margin: 8px auto 20px; max-width: 30em; }
-.fecho-fig { display: flex; justify-content: center; }
-.fecho-fig .fig { width: 112px; margin-inline: -7px; }
+.fecho { overflow: clip; }
+.fecho-fig { display: flex; justify-content: center; align-items: center; }
+.fecho-fig .fig { width: auto; margin-inline: -2px; flex: none; }
+.fecho-fig .fig img { width: auto; height: 128px; max-width: 124px; object-fit: contain; }
 .fecho-fig .f0 { rotate: -9deg; }
 .fecho-fig .f1 { rotate: 3deg; translate: 0 -8px; }
 .fecho-fig .f2 { rotate: 11deg; }
 @media (min-width: 860px) {
   .fecho-in { grid-template-columns: auto minmax(0, 1fr); justify-items: start; text-align: left; gap: 56px; align-items: center; max-width: 1040px; }
   .fecho p { margin-inline: 0; }
-  .fecho-fig .fig { width: 150px; }
+  .fecho-fig .fig img { height: 190px; max-width: 190px; }
 }
 .rodape { background: var(--uva); color: #f3ecff; padding: 40px 0 112px; font-size: 1rem; }
 .rodape-in { display: grid; gap: 22px; }

diff --git a/papelaria-da-isa-joinville-sc/como-comprar.html b/papelaria-da-isa-joinville-sc/como-comprar.html
@@ -25,16 +25,19 @@
 </header>
 <main id="conteudo">
 <section class="topo-int">
-  <div class="largura">
+  <div class="largura topo-duas">
+    <div>
     <h1 class="letreiro menor">Na loja ou em casa</h1>
     <p class="sub">Venha ver de perto no Shopping Mueller ou compre pelo WhatsApp e receba onde estiver.</p>
     <div class="acoes acoes-int"><a class="btn btn-cheio" data-cta-topo href="https://wa.me/5547999317565?text=Ol%C3%A1%21%20Quero%20comprar%20pela%20Papelaria%20da%20Isa."><svg viewBox="0 0 24 24" aria-hidden="true" fill="currentColor"><path d="M12.04 2C6.58 2 2.13 6.45 2.13 11.91c0 1.75.46 3.45 1.32 4.95L2.05 22l5.25-1.38a9.9 9.9 0 0 0 4.74 1.21c5.46 0 9.9-4.45 9.9-9.91S17.5 2 12.04 2Zm5.8 14c-.24.68-1.42 1.31-1.95 1.36-.5.05-1.13.07-1.82-.11-.42-.13-.96-.31-1.65-.61-2.9-1.25-4.8-4.17-4.94-4.36-.14-.19-1.18-1.57-1.18-3 0-1.42.75-2.12 1.01-2.41.26-.29.57-.36.76-.36l.55.01c.18.01.41-.07.65.49.24.57.82 2 .89 2.15.07.14.12.31.02.5-.1.19-.14.31-.29.48-.14.17-.3.37-.43.5-.14.14-.29.3-.12.59.17.29.74 1.22 1.58 1.97 1.09.97 2 1.27 2.29 1.42.29.14.45.12.62-.07.17-.19.72-.84.91-1.13.19-.29.38-.24.65-.14.26.1 1.68.79 1.97.94.29.14.48.21.55.33.07.12.07.69-.17 1.37Z"/></svg><span>Comprar pelo WhatsApp</span></a></div>
+    </div>
+    <div class="mis-foto topo-foto"><img src="img/mapa-arte-520.webp" srcset="img/mapa-arte-520.webp 520w, img/mapa-arte-690.webp 690w" sizes="(max-width: 700px) 92vw, 520px" width="520" height="362" alt="Ilustração do Shopping Mueller com um marcador de localização" decoding="async" fetchpriority="high"><p class="leg">Arte da loja: estamos no Shopping Mueller</p></div>
   </div>
 </section>
 
 <section class="secao">
   <div class="largura misterio">
-    <div class="mis-foto rosa"><img src="img/arte-parede-420.webp" srcset="img/arte-parede-420.webp 420w, img/arte-parede-840.webp 840w" sizes="(max-width: 700px) 92vw, 440px" width="420" height="433" alt="Arte em 3D de uma parede rosa com o logo da Papelaria da Isa" decoding="async" fetchpriority="high"><p class="leg">Arte da Papelaria da Isa</p></div>
+    <div class="mis-foto rosa"><img src="img/arte-parede-420.webp" srcset="img/arte-parede-420.webp 420w, img/arte-parede-840.webp 840w" sizes="(max-width: 700px) 92vw, 440px" width="420" height="433" alt="Arte em 3D de uma parede rosa com o logo da Papelaria da Isa" decoding="async" loading="lazy"><p class="leg">Arte da Papelaria da Isa</p></div>
     <div>
       <h2 class="titulo">Para achar a loja</h2>
       <ul class="placas">
@@ -59,7 +62,7 @@
 </section>
 <section class="fecho">
   <div class="largura fecho-in">
-    <div class="fecho-fig" aria-hidden="true"><span class="fig f0" data-aperta><img src="img/pel-vermelha-240.webp" srcset="img/pel-vermelha-240.webp 240w, img/pel-vermelha-480.webp 480w" sizes="(max-width: 700px) 34vw, 210px" width="240" height="286" alt="" decoding="async" loading="lazy"></span><span class="fig f1" data-aperta><img src="img/pel-amarela-240.webp" srcset="img/pel-amarela-240.webp 240w, img/pel-amarela-478.webp 478w" sizes="(max-width: 700px) 34vw, 210px" width="240" height="307" alt="" decoding="async" loading="lazy"></span><span class="fig f2" data-aperta><img src="img/pel-verde-240.webp" srcset="img/pel-verde-240.webp 240w, img/pel-verde-454.webp 454w" sizes="(max-width: 700px) 34vw, 210px" width="240" height="321" alt="" decoding="async" loading="lazy"></span></div>
+    <div class="fecho-fig" aria-hidden="true"><span class="fig f0" data-aperta><img src="img/papelaria-220.webp" srcset="img/papelaria-220.webp 220w, img/papelaria-420.webp 420w" sizes="(max-width: 700px) 34vw, 210px" width="220" height="520" alt="" decoding="async" loading="lazy"></span><span class="fig f1" data-aperta><img src="img/urso-240.webp" srcset="img/urso-240.webp 240w, img/urso-312.webp 312w" sizes="(max-width: 700px) 34vw, 210px" width="240" height="238" alt="" decoding="async" loading="lazy"></span><span class="fig f2" data-aperta><img src="img/pel-azul-240.webp" srcset="img/pel-azul-240.webp 240w, img/pel-azul-480.webp 480w" sizes="(max-width: 700px) 34vw, 210px" width="240" height="279" alt="" decoding="async" loading="lazy"></span></div>
     <div>
       <h2 class="titulo">Te esperamos com carinho</h2>
       <p>Na loja, no 1º piso do Shopping Mueller, ou no WhatsApp, de qualquer lugar do Brasil.</p>
